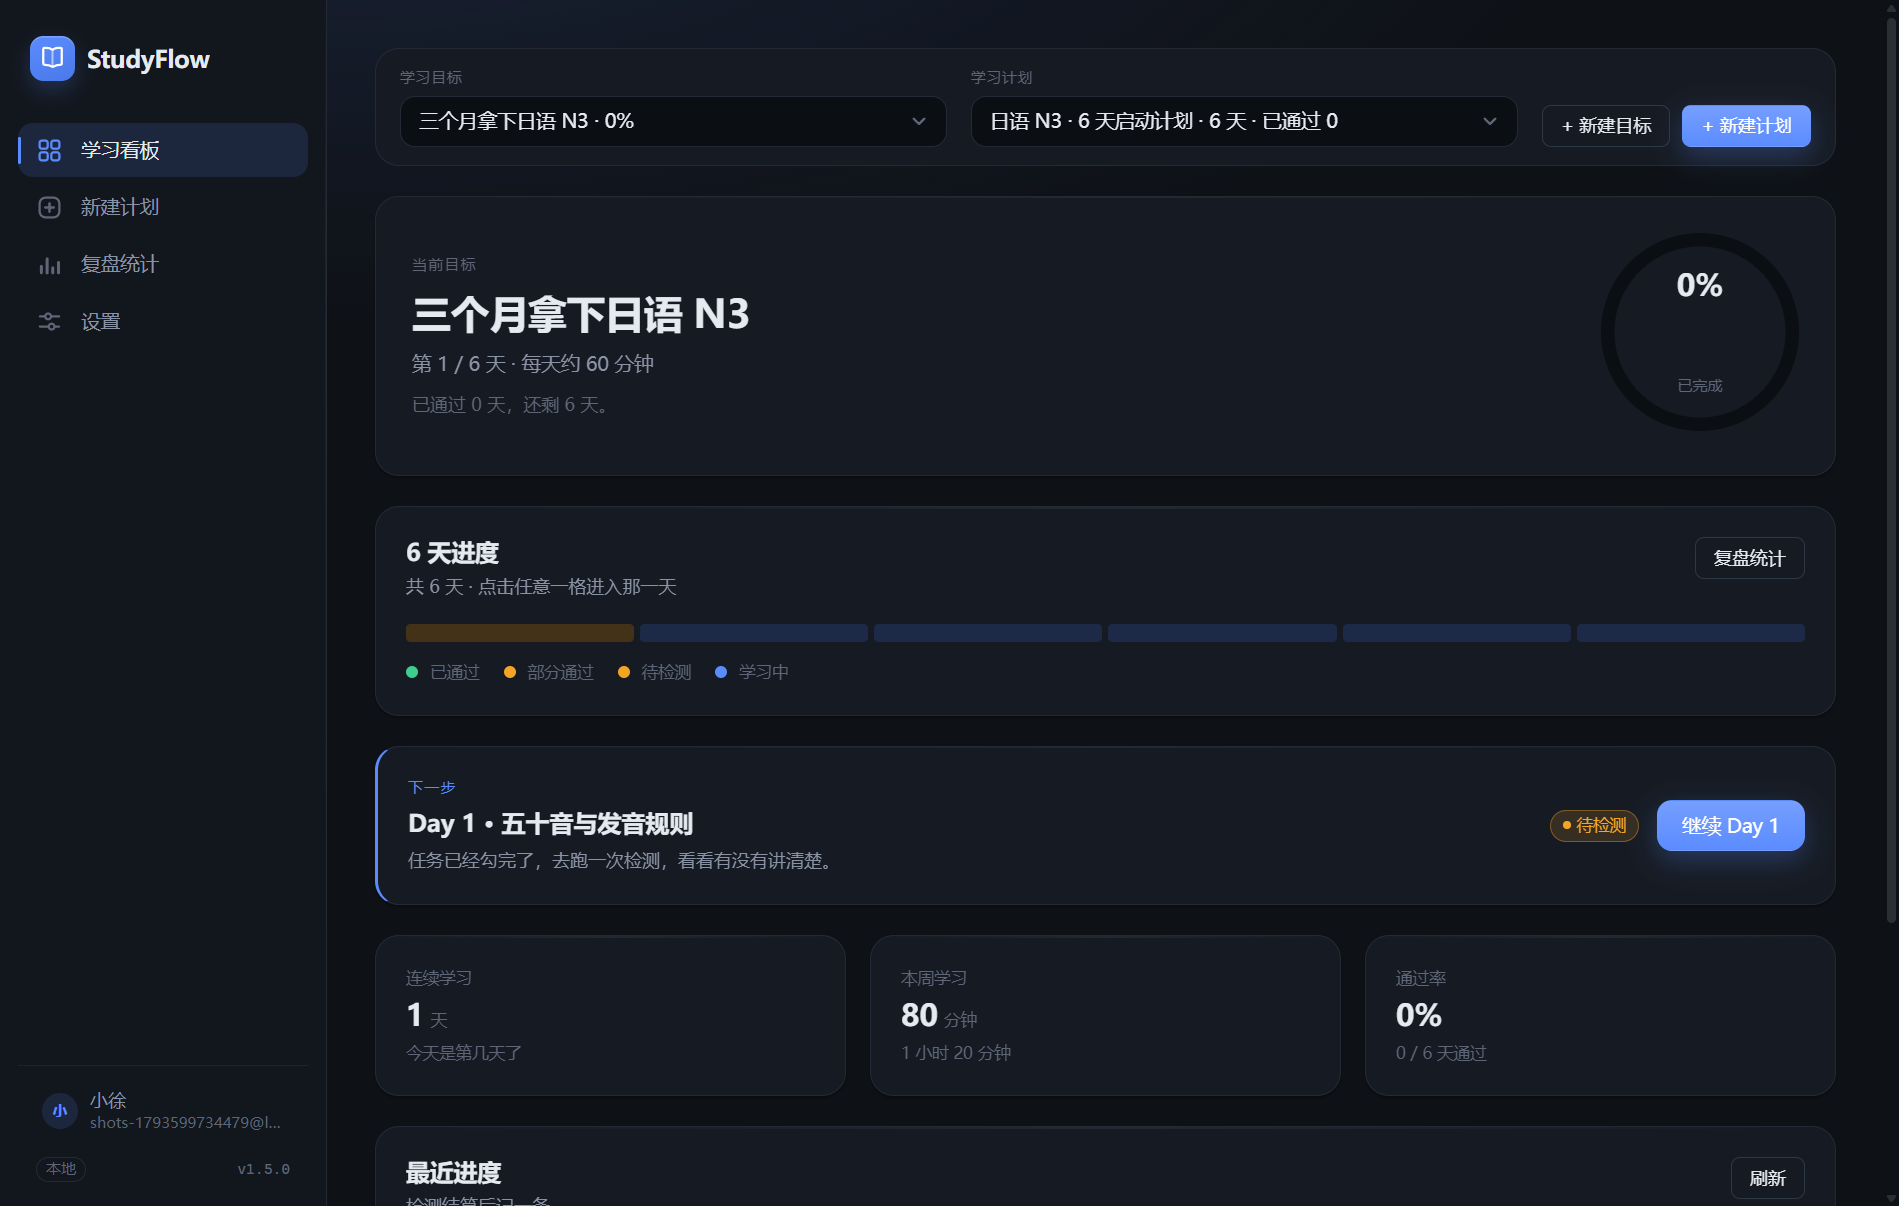
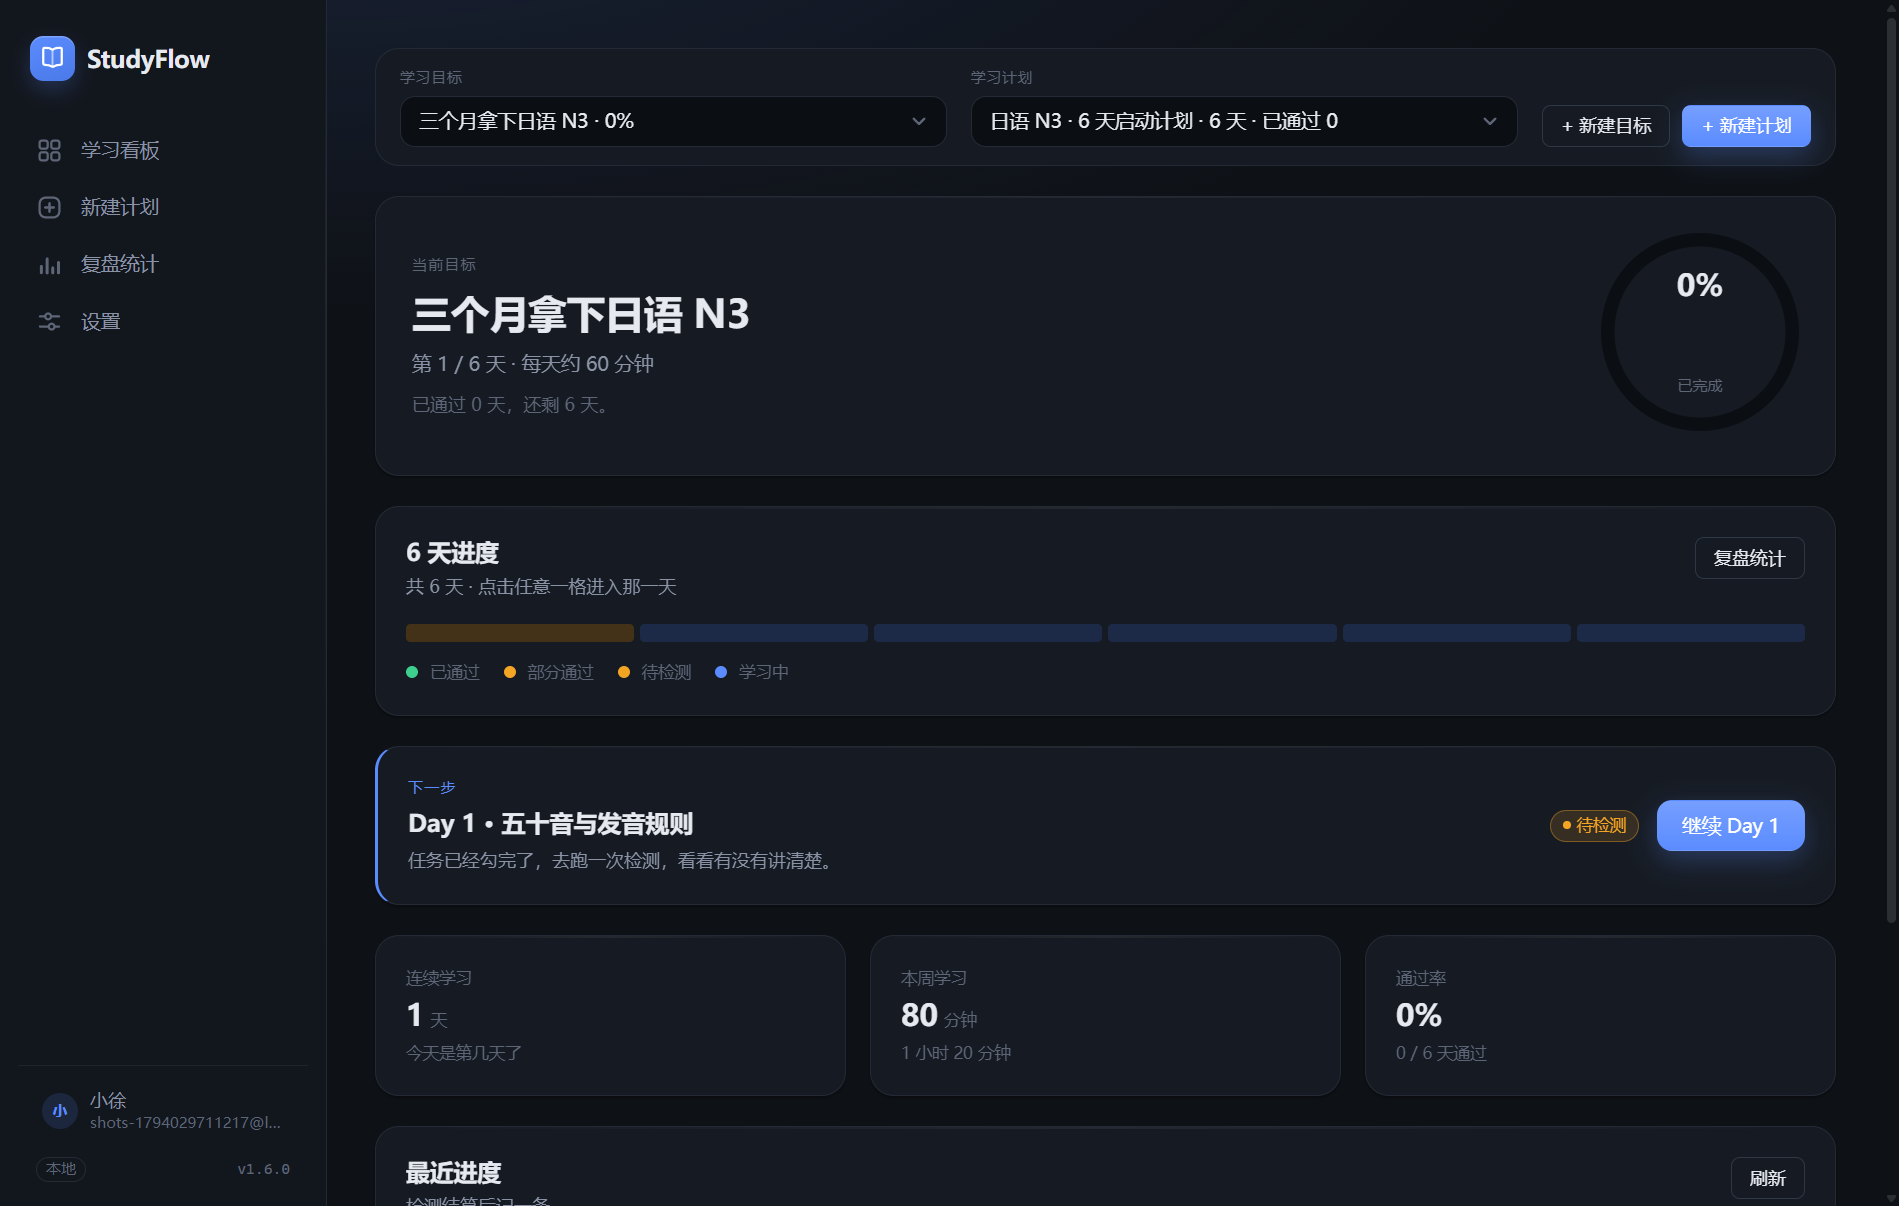
feat: 支持导入 .pptx 课堂 PPT（v1.6.0）

Changed region(s): [[0.0, 0.092, 0.1864, 0.1534], [0.0932, 0.9204, 0.1243, 0.9511]]

diff --git a/src/main/util/importer.ts b/src/main/util/importer.ts
@@ -1,8 +1,9 @@
 /**
  * 学习资料导入：把本地文件读成纯文本，存进 material 表，供生成计划 / 出题时参考。
  *
- * 支持：.md / .markdown / .txt（直接读 UTF-8）、.docx（解 zip 取 word/document.xml 的文本）。
- * 不支持：.doc（老二进制格式）、PDF、图片、网页。遇到不支持的格式返回可读原因，不抛给渲染层。
+ * 支持：.md / .markdown / .txt（直接读 UTF-8）、.docx（解 zip 取 word/document.xml）、
+ *       .pptx（解 zip 取 ppt/slides/slideN.xml，逐页抽文字，带上备注）。
+ * 不支持：.doc / .ppt（老二进制格式）、PDF、图片、网页。
  */
 import { readFileSync, statSync } from 'node:fs'
 import { basename, extname } from 'node:path'
@@ -18,6 +19,7 @@ export const MAX_TEXT_CHARS = 200_000
 
 const TEXT_EXTS = new Set(['.md', '.markdown', '.txt'])
 const DOCX_EXTS = new Set(['.docx'])
+const PPTX_EXTS = new Set(['.pptx'])
 
 export interface ParsedDocument {
   /** 文件名去掉扩展名，作为资料标题 */
@@ -29,7 +31,7 @@ export interface ParsedDocument {
 
 export function isSupportedDocument(filePath: string): boolean {
   const ext = extname(filePath).toLowerCase()
-  return TEXT_EXTS.has(ext) || DOCX_EXTS.has(ext)
+  return TEXT_EXTS.has(ext) || DOCX_EXTS.has(ext) || PPTX_EXTS.has(ext)
 }
 
 function decodeXmlEntities(text: string): string {
@@ -74,6 +76,24 @@ export function docxXmlToText(xml: string): string {
   return lines.join('\n')
 }
 
+/** 把单张幻灯片 XML 转成文本：每个 <a:p> 一段，段内拼 <a:t>，<a:br/> 当换行 */
+export function slideXmlToText(xml: string): string {
+  const paragraphs = xml.split(/<\/a:p>/i)
+  const lines: string[] = []
+  for (const paragraph of paragraphs) {
+    const pieces: string[] = []
+    const tokenPattern = /<a:t(?:\s[^>]*)?>([\s\S]*?)<\/a:t>|<a:br\s*\/>/gi
+    let match: RegExpExecArray | null
+    while ((match = tokenPattern.exec(paragraph)) !== null) {
+      if (match[1] !== undefined) pieces.push(decodeXmlEntities(match[1]))
+      else pieces.push('\n')
+    }
+    const line = pieces.join('').replace(/[ \t]+$/g, '')
+    if (line.trim() !== '') lines.push(line)
+  }
+  return lines.join('\n')
+}
+
 /** Markdown → 纯文本：去掉 YAML frontmatter、图片语法与行尾空白，压缩空行 */
 export function markdownToText(raw: string): string {
   let text = raw.replace(/\r\n?/g, '\n')
@@ -96,6 +116,42 @@ function truncate(text: string): string {
   return `${text.slice(0, MAX_TEXT_CHARS)}\n\n（内容过长，已截断到 ${MAX_TEXT_CHARS} 字）`
 }
 
+/**
+ * 解 .pptx 的 zip：找 ppt/slides/slideN.xml（按页码排序），逐页抽文字，
+ * 有备注页（ppt/notesSlides/notesSlideN.xml）就一起带上 —— 讲稿往往比幻灯片本身更有信息。
+ */
+export async function pptxToText(buffer: Buffer, fileName: string): Promise<string> {
+  const zip = await JSZip.loadAsync(buffer)
+
+  const slides = Object.keys(zip.files)
+    .map((name) => {
+      const matched = /^ppt\/slides\/slide(\d+)\.xml$/i.exec(name)
+      return matched ? { name, index: Number(matched[1]) } : null
+    })
+    .filter((item): item is { name: string; index: number } => item !== null)
+    .sort((a, b) => a.index - b.index)
+
+  if (slides.length === 0) {
+    throw new AppError('VALIDATION', `${fileName} 里没有找到幻灯片（可能不是 PowerPoint 文件）`)
+  }
+
+  const pages: string[] = []
+  for (const slide of slides) {
+    const entry = zip.file(slide.name)
+    if (!entry) continue
+    const text = slideXmlToText(await entry.async('string'))
+
+    const notesEntry = zip.file(`ppt/notesSlides/notesSlide${slide.index}.xml`)
+    const notes = notesEntry ? slideXmlToText(await notesEntry.async('string')) : ''
+
+    if (text.trim() === '' && notes.trim() === '') continue
+    const notesBlock = notes.trim() === '' ? '' : `\n\n【备注】\n${notes}`
+    pages.push(`## 第 ${slide.index} 页\n${text}${notesBlock}`)
+  }
+
+  return pages.join('\n\n')
+}
+
 /** 读一个文件并解析成资料内容；失败抛 AppError（带可读中文原因） */
 export async function parseDocument(filePath: string): Promise<ParsedDocument> {
   const title = basename(filePath, extname(filePath)).trim() || '未命名资料'
@@ -104,7 +160,7 @@ export async function parseDocument(filePath: string): Promise<ParsedDocument> {
   if (!isSupportedDocument(filePath)) {
     throw new AppError(
       'VALIDATION',
-      `不支持 ${ext || '这种'} 格式，只能导入 .md / .markdown / .txt / .docx`
+      `不支持 ${ext || '这种'} 格式，只能导入 .md / .markdown / .txt / .docx / .pptx`
     )
   }
 
@@ -138,6 +194,14 @@ export async function parseDocument(filePath: string): Promise<ParsedDocument> {
     const content = truncate(docxXmlToText(xml))
     if (content.trim() === '') {
       throw new AppError('VALIDATION', `${basename(filePath)} 里没有可读文字（可能是纯图片文档）`)
+    }
+    return { title, content, kind: 'chapter' }
+  }
+
+  if (PPTX_EXTS.has(ext)) {
+    const content = truncate(await pptxToText(buffer, basename(filePath)))
+    if (content.trim() === '') {
+      throw new AppError('VALIDATION', `${basename(filePath)} 里没有可读文字（可能整份都是图片）`)
     }
     return { title, content, kind: 'chapter' }
   }

diff --git a/scripts/smoke-flow.js b/scripts/smoke-flow.js
@@ -79,29 +79,35 @@
     })
     goalId = goal.id
 
-    // 1.5 资料导入：md 与 docx 各一份，验证解析 + 入库 + 列表
+    // 1.5 资料导入：md / docx / pptx 各一份，验证解析 + 入库 + 列表
     const imported = await must('material:import', 'material:import', {
       goalId,
-      paths: ['.tmp-fixtures/kana.md', '.tmp-fixtures/sample.docx']
+      paths: ['.tmp-fixtures/kana.md', '.tmp-fixtures/sample.docx', '.tmp-fixtures/lecture.pptx']
     })
-    record('资料导入 2 份', imported.imported === 2 && imported.skipped.length === 0, {
+    record('资料导入 3 份', imported.imported === 3 && imported.skipped.length === 0, {
       imported: imported.imported,
       skipped: imported.skipped
     })
     const materials = await must('material:list', 'material:list', { goalId })
     const md = materials.find((m) => m.title === 'kana')
     const docx = materials.find((m) => m.title === 'sample')
+    const pptx = materials.find((m) => m.title === 'lecture')
     record(
       '资料解析出正文',
-      materials.length === 2 &&
+      materials.length === 3 &&
         Boolean(md) &&
         Boolean(docx) &&
+        Boolean(pptx) &&
         Boolean(md.content.includes('# 第一章')) &&
-        Boolean(docx.content.includes('第一段正文')),
+        Boolean(docx.content.includes('第一段正文')) &&
+        Boolean(pptx.content.includes('课堂 PPT 第一页标题')) &&
+        Boolean(pptx.content.includes('【备注】')) &&
+        Boolean(pptx.content.includes('## 第 2 页')),
       {
         titles: materials.map((m) => m.title),
         mdChars: md ? md.content.length : 0,
-        docxChars: docx ? docx.content.length : 0
+        docxChars: docx ? docx.content.length : 0,
+        pptxChars: pptx ? pptx.content.length : 0
       }
     )
     const rejected = await must('material:import 拒收 pdf', 'material:import', {

diff --git a/src/renderer/pages/PlanNew.tsx b/src/renderer/pages/PlanNew.tsx
@@ -157,7 +157,7 @@ export default function PlanNew(): JSX.Element {
     )
   }
 
-  // ───────── 学习资料（.md / .txt / .docx 导入） ─────────
+  // ───────── 学习资料（.md / .txt / .docx / .pptx 导入） ─────────
   const loadMaterials = useCallback(async (): Promise<void> => {
     if (goalId === '') return
     try {
@@ -294,7 +294,7 @@ export default function PlanNew(): JSX.Element {
       {phase === 'idle' ? (
         <Card
           title="学习资料（可选）"
-          subtitle="导入教材 / 笔记原文，生成计划时 AI 会参考（最多 3 份、每份前 5000 字）。"
+          subtitle="导入讲义原文（.md / .txt / .docx / .pptx），生成计划、备课与出题时 AI 会参考（最多 3 份、每份前 5000 字）。"
           actions={
             <Button
               variant={materials.length === 0 ? 'primary' : 'ghost'}
@@ -308,7 +308,7 @@ export default function PlanNew(): JSX.Element {
         >
           {materials.length === 0 ? (
             <div className="sf-plan__mats-empty">
-              <p>支持 .md / .markdown / .txt / .docx，一次最多 20 份，单份不超过 8MB。</p>
+              <p>支持 .md / .markdown / .txt / .docx / .pptx（课堂 PPT 会连备注一起读），一次最多 20 份，单份不超过 8MB。</p>
               <p className="sf-faint">不导入也能生成：没有资料时 AI 按目标本身的常识拆解。</p>
             </div>
           ) : (

diff --git a/src/main/index.ts b/src/main/index.ts
@@ -64,15 +64,29 @@ function createWindow(): void {
         mkdirSync(shotsDir, { recursive: true })
         setTimeout(() => {
           // 等一屏再截：console.log 到合成器出帧之间常有一屏延迟，否则会拍上一个页面。
-          // 这里刻意不用 requestAnimationFrame（窗口被遮挡时 rAF 会被节流甚至不触发）。
-          void win.webContents
-            .capturePage()
+          // 先等两个 rAF（最多 600ms 兜底），确认渲染层确实画完新帧，再抓图。
+          const settle = win.webContents
+            .executeJavaScript(
+              `new Promise((resolve) => {
+                 let frames = 0
+                 const tick = () => {
+                   frames += 1
+                   if (frames >= 2) return resolve(true)
+                   requestAnimationFrame(tick)
+                 }
+                 requestAnimationFrame(tick)
+                 setTimeout(() => resolve(false), 600)
+               })`
+            )
+            .catch(() => false)
+          void settle
+            .then(() => win.webContents.capturePage())
             .then((image) => {
               writeFileSync(join(shotsDir, `${label}.png`), image.toPNG())
               console.log(`[smoke] 已截图 ${label}`)
             })
             .catch((error) => console.error('[smoke] 截图失败', error))
-        }, 1500)
+        }, 1200)
       }
     })
     win.webContents.on('did-fail-load', (_event, code, desc) => {

diff --git a/src/main/ipc/dbHandlers.ts b/src/main/ipc/dbHandlers.ts
@@ -282,7 +282,8 @@ export function registerDbHandlers(): void {
   })
 
   /**
-   * 弹系统文件框选 .md/.txt/.docx → 解析成纯文本 → 逐份入库。
+   * 弹系统文件框选 .md/.txt/.docx/.pptx → 解析成纯文本 → 逐份入库。
+   * .pptx 会连同「备注」一起抽出来（讲稿通常比幻灯片本身信息更多）。
    * 也接受显式 paths（自动化测试用），否则一律走系统对话框，渲染进程拿不到任意路径读取能力。
    */
   handle<unknown, MaterialImportResult>(IPC.MATERIAL_IMPORT, async (payload) => {
@@ -301,7 +302,10 @@ export function registerDbHandlers(): void {
         buttonLabel: '导入',
         properties: ['openFile', 'multiSelections'],
         filters: [
-          { name: 'Markdown / 文本 / Word', extensions: ['md', 'markdown', 'txt', 'docx'] },
+          {
+            name: '学习资料（Markdown / 文本 / Word / PowerPoint）',
+            extensions: ['md', 'markdown', 'txt', 'docx', 'pptx']
+          },
           { name: '全部文件', extensions: ['*'] }
         ]
       })

diff --git a/src/renderer/components/layout.tsx b/src/renderer/components/layout.tsx
@@ -9,7 +9,7 @@ import { useAppStore } from '../store/app'
 import './layout.css'
 
 /** 与 package.json 的 version 保持一致（渲染层不读 package.json，避免把依赖清单打进包） */
-const APP_VERSION = '1.5.0'
+const APP_VERSION = '1.6.0'
 
 function IconDashboard(): JSX.Element {
   return (

diff --git a/README.md b/README.md
@@ -10,7 +10,7 @@
 - 教案：进 Day 后可以「让 AI 备课」，按目标与资料写出分节讲解、练习、每个任务的具体步骤、易错点和自检清单（按天缓存，可重新备课）
 - 答疑：教案页底部可以直接提问，AI 对照这一天和你的资料回答
 - 账号：本地账号 + 密码登录（只存本机，不联网），每个账号独立数据，退出不删数据
-- 资料：可以把 .md / .txt / .docx 教材导进来，生成计划、备课与出题时 AI 会参考原文（最多 3 份、每份前 5000 字）
+- 资料：可以把 .md / .txt / .docx / .pptx（课堂 PPT，连讲稿备注一起读）教材导进来，生成计划、备课与出题时 AI 会参考原文（最多 3 份、每份前 5000 字）
 - 多目标：可以同时学多个目标，每个目标有各自的计划、进度、教案和统计，看板顶部一键切换；同一个目标也能存多份计划（旧的自动归档，数据保留）
 
 > 设计文档：`docs/01-产品设计.md`、`docs/02-技术设计.md`、`docs/03-DeepSeek-API-备忘.md`、`docs/04-技术方案.md`、`docs/05-上线路线图.md`（v2 计划：打包/分发/账号同步/AI 网关/商业化）
@@ -112,7 +112,7 @@ scripts/
 ├─ smoke-flow.js            # 注入渲染进程的链路脚本（76 项断言）
 ├─ shots-flow.js            # 造演示数据 + 逐页打点截图
 ├─ shots-lesson.js          # 用已备好课的库拍教案截图
-└─ fixtures.mjs             # 生成导入测试素材（.md / .docx / .pdf）
+└─ fixtures.mjs             # 生成导入测试素材（.md / .docx / .pptx / .pdf）
 docs/                       # 产品 / 技术 / API / 方案四份设计文档
 ```
 
@@ -133,7 +133,7 @@ docs/                       # 产品 / 技术 / API / 方案四份设计文档
 | 进度汇总 / 事件流 / 14 天统计 / Markdown 导出 | ✅ |
 | 复检入口可点，无历史考试时给出可读提示 | ✅ |
 | 删除目标后不留孤儿数据（统计归零） | ✅ |
-| 导入 .md / .docx → 解析正文 → 计划页可见、可移除 | ✅ |
+| 导入 .md / .docx / .pptx → 解析正文（PPT 带页码与备注）→ 计划页可见、可移除 | ✅ |
 | 新建第二个目标 → 自动切换、旧目标数据不受影响 | ✅ |
 | 切换目标/计划后 BootstrapData 与今日 Day 同步 | ✅ |
 | 删除当前目标后上下文回退到剩余目标 | ✅ |
@@ -170,7 +170,7 @@ docs/                       # 产品 / 技术 / API / 方案四份设计文档
 - 只支持文字输入（不做语音复述）
 - 教案按天生成并缓存：第一次要点「让 AI 备课」，重新备课会再花一次调用（约 ¥0.01–0.02）
 - 答疑消息只存在当前页面，刷新即清空（不写入数据库）
-- 资料只导入文字：支持 .md / .markdown / .txt / .docx；不支持 .doc、PDF、图片、网页
+- 资料只导入文字：支持 .md / .markdown / .txt / .docx / .pptx；不支持 .ppt（老二进制格式）、PDF、图片、网页；PPT 里纯图片页会被跳过
 - 只接入 DeepSeek（不做多模型切换）
 - 单机单用户，不做云同步
 
@@ -178,7 +178,7 @@ docs/                       # 产品 / 技术 / API / 方案四份设计文档
 
 ## 版本管理
 
-仓库用 git 管理，主线分支 `main`，发版用语义化版本 tag（当前 `v1.4.0`；历史 tag：`v1.3.2`、`v1.3.0`、`v1.2.0`、`v1.1.0`、`v1.0.0`、`v0.1.0`），每次发版在 [CHANGELOG.md](./CHANGELOG.md) 记一条。
+仓库用 git 管理，主线分支 `main`，发版用语义化版本 tag（当前 `v1.6.0`；历史 tag：`v1.5.0`、`v1.4.0`、`v1.3.2`、`v1.3.0`、`v1.2.0`、`v1.1.0`、`v1.0.0`、`v0.1.0`），每次发版在 [CHANGELOG.md](./CHANGELOG.md) 记一条。
 
 版本约定：`1.x` 都是可用版本，功能新增升次版本号（`1.1.0`），只修 bug 升修订号（`1.1.1`）。
 

diff --git a/CHANGELOG.md b/CHANGELOG.md
@@ -3,6 +3,15 @@
 本项目的版本号遵循 [语义化版本](https://semver.org/lang/zh-CN/)：`主版本.次版本.修订号`。
 桌面应用对外发版时打 tag（`v1.0.0` 这类），安装包与 tag 一一对应。
 
+## [1.6.0] — 2026-11-07
+
+**新增：课堂 PPT（.pptx）导入**
+
+- 资料导入新增 `.pptx`：逐页抽取幻灯片文字，按页码排成「## 第 N 页」，讲稿备注（notes）一并带进来。
+- 系统文件框、资料卡提示、错误文案同步为 `.md / .markdown / .txt / .docx / .pptx`。
+- 冒烟素材新增 `lecture.pptx`（两页 + 首页备注），断言校验页码标题、正文与备注都可读。
+- 仍不支持 `.ppt`（老二进制）、PDF、图片；PPT 里纯图片页会被跳过，整份无文字时给出可读原因。
+
 ## [1.5.0] — 2026-11-02
 
 **新增：本地多账号登录**
